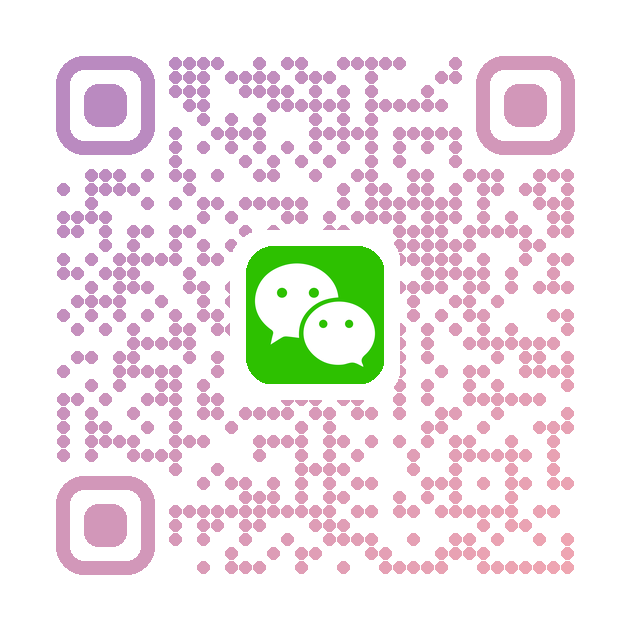
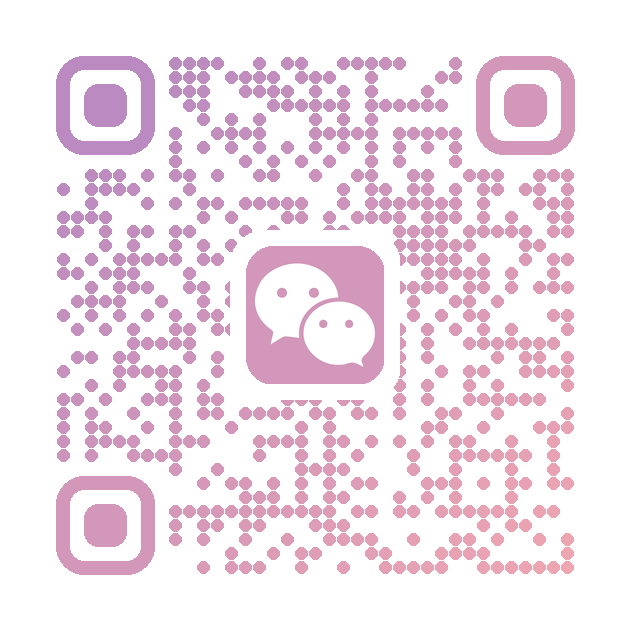
fix: 修复微信图标绿色问题，更新联系开发者文字，调整弹窗高度
- 重新生成二维码：图标背景改为与渐变色匹配的粉紫色/蓝色（去掉绿色）
- 深色版图标：粉紫色 RGB(210,151,186)，浅色版图标：蓝色 RGB(65,125,190)
- 两版二维码均通过扫码测试（URL正确）
- 更新中文文字：'我是这个应用的开发者：大星Patrick...'
- 更新英文文字：'I am the developer of this app: Patrick...'
- 弹窗 maxHeight 从 85vh 改为 72vh（截断在描述文字处，邮箱需滑动查看）

Changed region(s): [[0.3921, 0.3921, 0.6333, 0.6333]]

diff --git a/client/src/components/ContactDevDialog.tsx b/client/src/components/ContactDevDialog.tsx
@@ -86,7 +86,7 @@ export default function ContactDevDialog({
             padding: '20px 24px 24px',
             maxWidth: '340px',
             width: '90%',
-            maxHeight: '85vh',
+            maxHeight: '72vh',
             overflowY: 'auto',
             boxShadow: isDark
               ? '0 20px 60px rgba(0, 0, 0, 0.6)'
@@ -226,19 +226,19 @@ export default function ContactDevDialog({
               {isEn ? (
                 <>
                   <p style={{ margin: '0 0 10px 0' }}>
-                    I am the developer of Vedabase Web: Patrick. If you have any e-book resources or spiritual teacher lectures, please contact me.
+                    I am the developer of this app: Patrick. If you have any e-book resources or learning resources you'd like to share, please contact me.
                   </p>
                   <p style={{ margin: '0' }}>
-                    If you have any suggestions for improving Vedabase or ideas for cooperation, you can contact me through this QR code.
+                    If you have any suggestions for improving Vedabase, or ideas for collaboration, please contact me.
                   </p>
                 </>
               ) : (
                 <>
                   <p style={{ margin: '0 0 10px 0' }}>
-                    我是韦达书库网页版的开发者：大星Patrick。如果您有任何电子版书籍的资源，或者灵性导师的讲课等资源，可以联系我。
+                    我是这个应用的开发者：大星Patrick。如果您有任何电子版书籍的资源、或者学习资源，想要分享的，请联系我。
                   </p>
                   <p style={{ margin: '0' }}>
-                    如果您对韦达书库有任何改进的建议、合作的想法，可以通过这个二维码联系开发者。
+                    如果您对韦达书库有任何改进的建议、或者有合作的想法，请联系我。
                   </p>
                 </>
               )}
